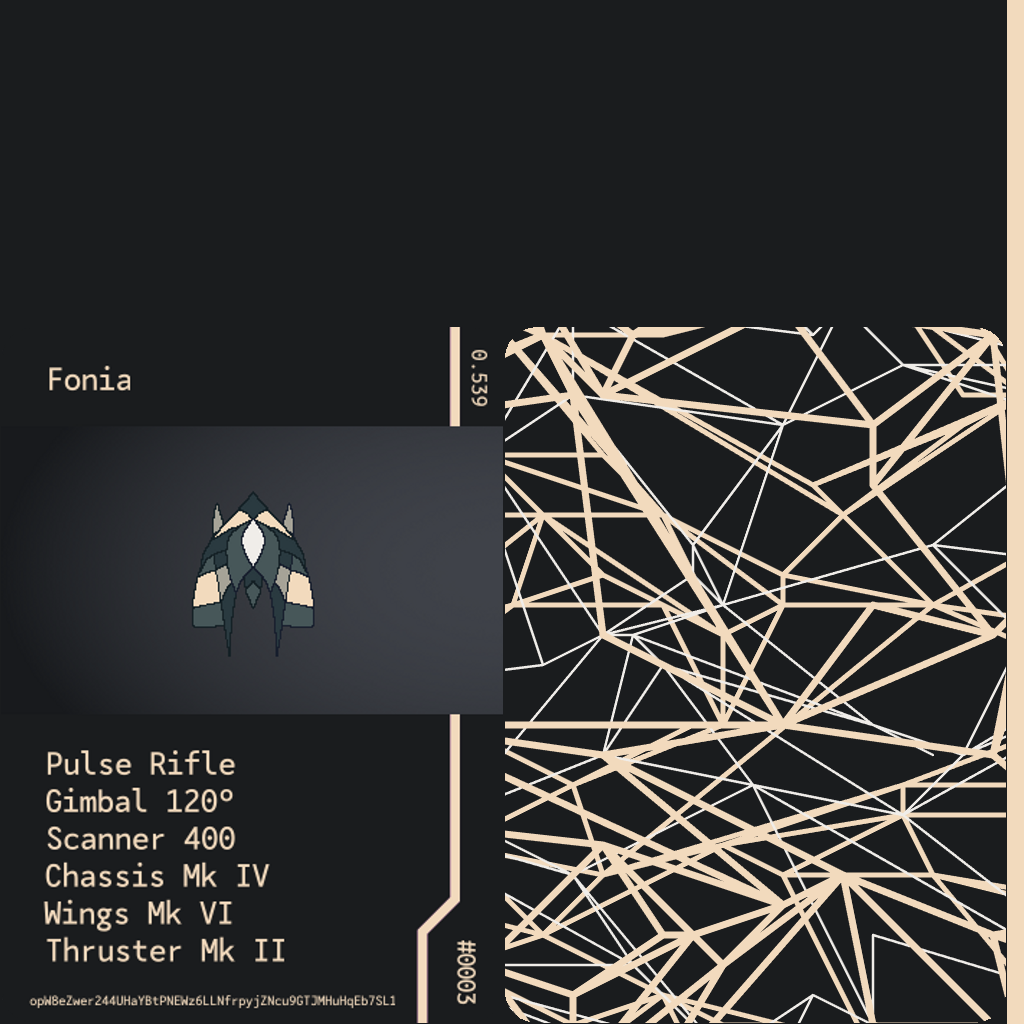
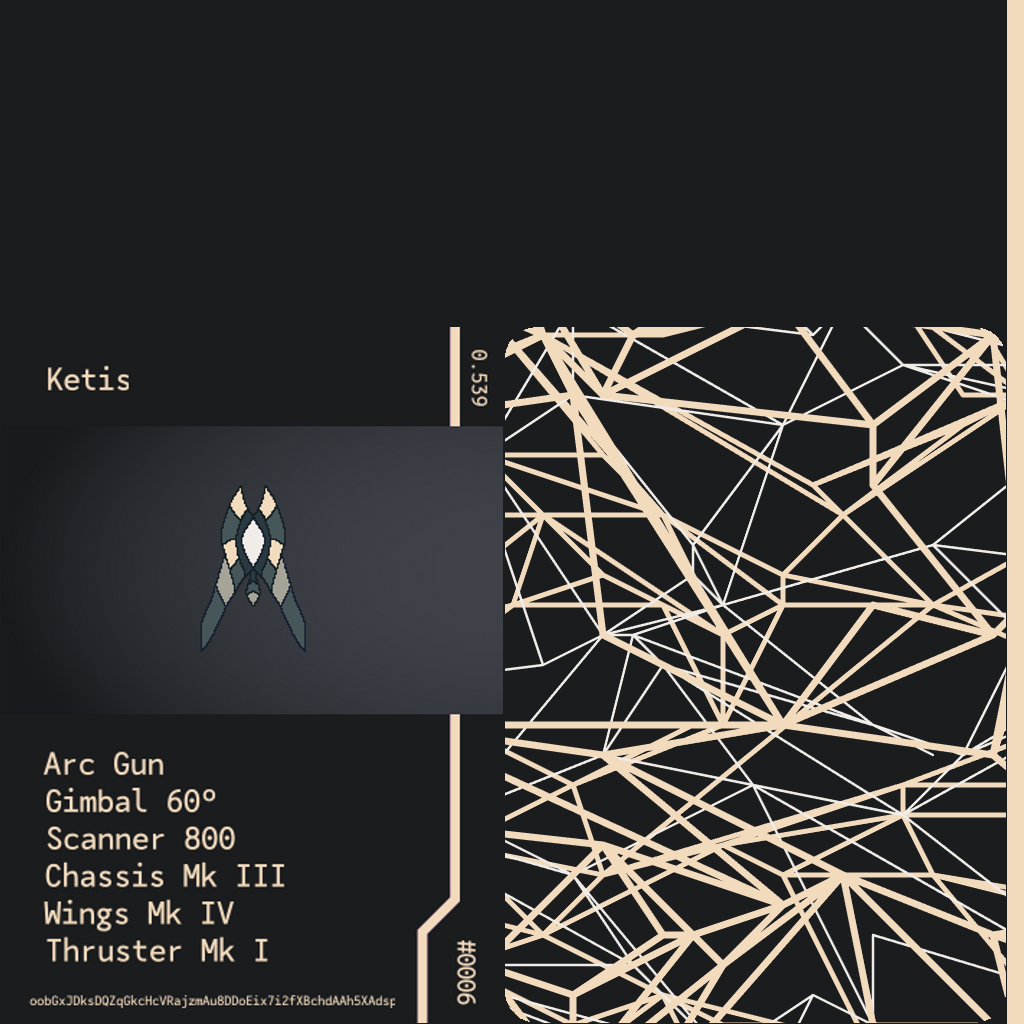
Latest

diff --git a/data/player-drones/player-queue.js b/data/player-drones/player-queue.js
@@ -1,2 +1,2 @@
-const playerQueue = [{"id":2,"seed":"opW8eZwer244UHaYBtPNEWz6LLNfrpyjZNcu9GTJMHuHqEb7SL1","value":"0.675","leader":"Tubos"},{"id":1,"seed":"ooa8PHz6zA8toZ4FBac7H972oupjbSpq8SQGFTaMuDL3dXQb2q7","value":"0.724","leader":"Nonia"},{"id":0,"seed":"ooU8CrAGL3ASBUMaAhfB3R9a5T3m4V6TEVVDzmiYoMmCGXwvhJo","value":"0.827","leader":"Gaphus"}];
+const playerQueue = [{"id":0,"seed":"oobGxJDksDQZqGkcHcVRajzmAu8DDoEix7i2fXBchdAAh5XAdsp","value":"0.648","leader":"Sophus"}];
     export default playerQueue;
